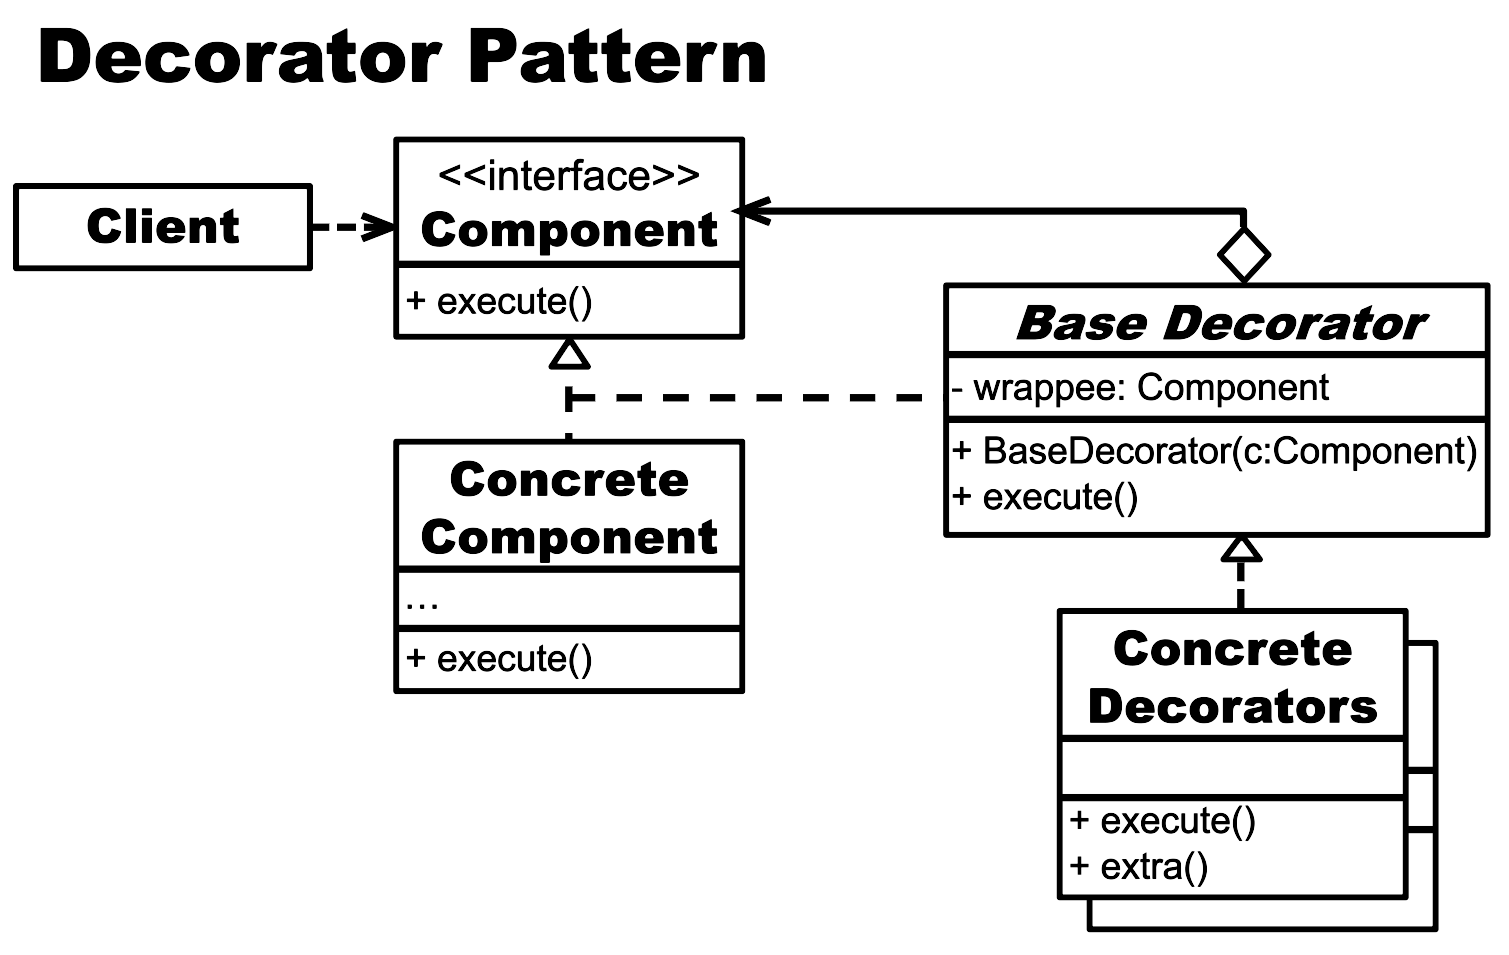
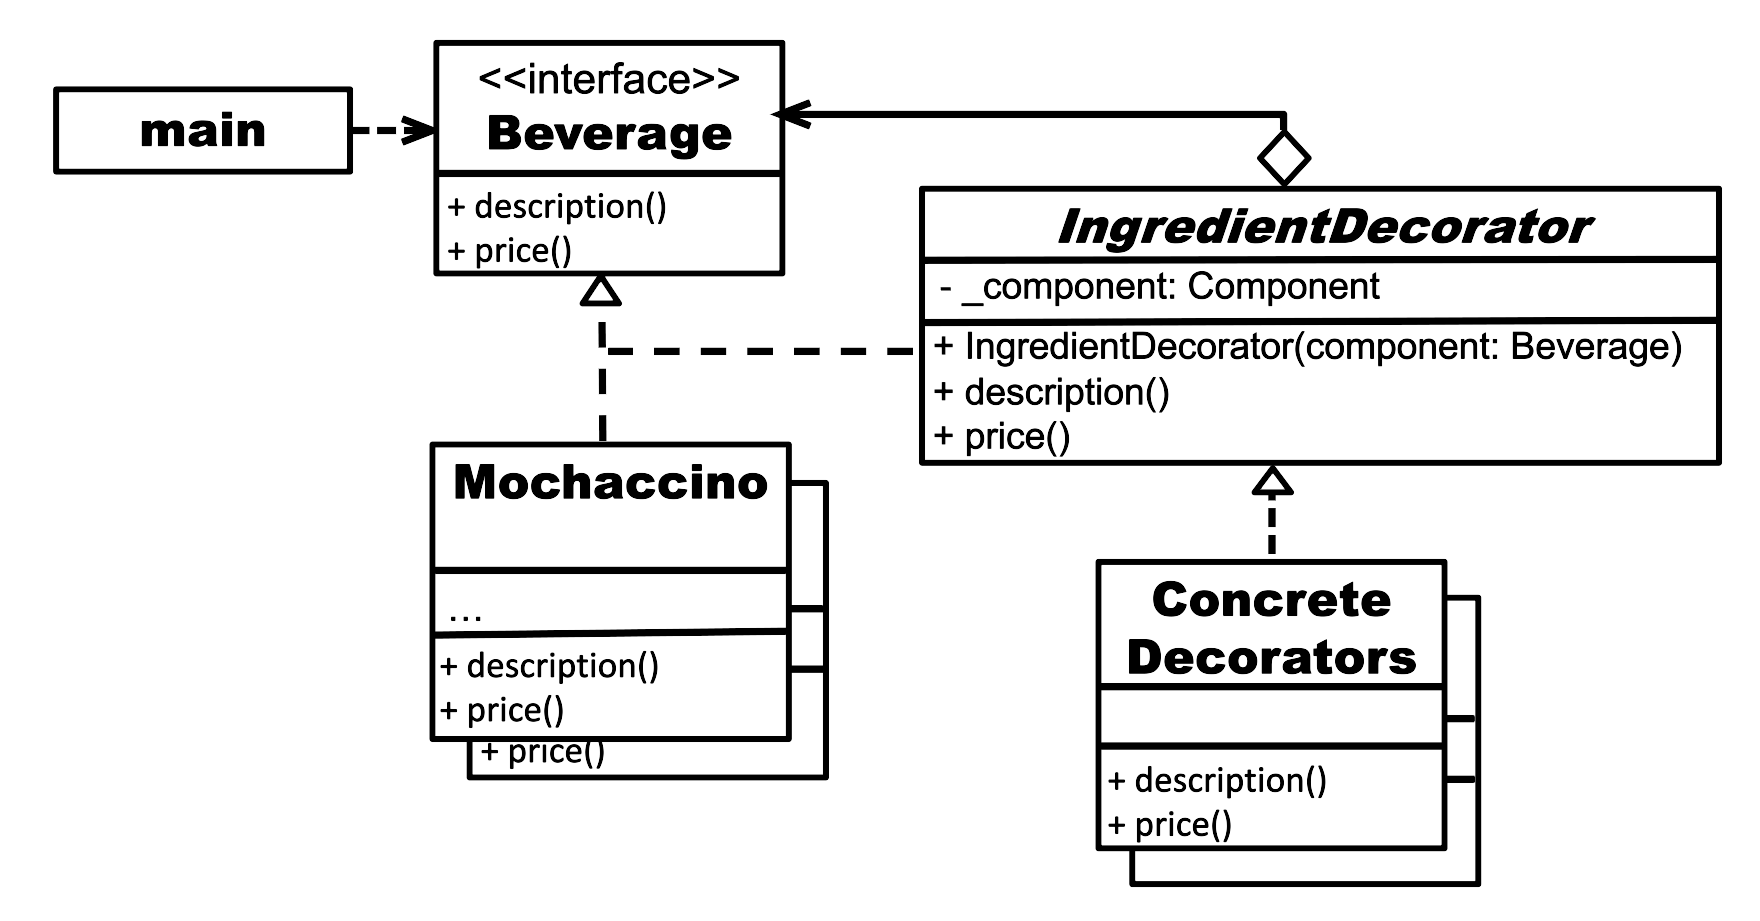
updated decorator

Changed region(s): [[0.0, 0.0304, 0.9967, 1.0]]

diff --git a/example_decorator_pattern.py b/example_decorator_pattern.py
@@ -8,7 +8,7 @@ class Beverage():
 
 
 # concrete component provides default implementation
-class Moccachino(Beverage):
+class Mochaccino(Beverage):
     def description(self) -> str:
         return "Moccachino"
 
@@ -36,7 +36,7 @@ class CoffeeBlack(Beverage):
 
 # base decorator implements the same component interface and
 # defines the wrapping interface for all concrete decorators
-class IngredientsDecorator(Beverage):
+class IngredientDecorator(Beverage):
     _component: Beverage = None
 
     def __init__(self, component: Beverage) -> None:
@@ -53,7 +53,7 @@ class IngredientsDecorator(Beverage):
 
 
 # concrete decorator
-class ExtraMilk(IngredientsDecorator):
+class ExtraMilk(IngredientDecorator):
     def description(self) -> str:
         return f"{super().description()}, extra milk"
 
@@ -62,7 +62,7 @@ class ExtraMilk(IngredientsDecorator):
 
 
 # concrete decorator
-class ExtraSuggar(IngredientsDecorator):
+class ExtraSuggar(IngredientDecorator):
     def description(self) -> str:
         return f"{super().description()}, extra suggar"
 
@@ -71,7 +71,7 @@ class ExtraSuggar(IngredientsDecorator):
 
 
 # concrete decorator
-class ExtraChocolate(IngredientsDecorator):
+class ExtraChocolate(IngredientDecorator):
     def description(self) -> str:
         return f"{super().description()}, extra chocolate"
 
@@ -85,9 +85,9 @@ def print_order(component: Beverage) -> None:
 
 
 def main():
-    moccachino = Moccachino()
-    moccachino = ExtraMilk(moccachino)
-    print_order(moccachino)
+    mochaccino = Mochaccino()
+    mochaccino = ExtraMilk(mochaccino)
+    print_order(mochaccino)
 
     coffee = CoffeeBlack()
     coffee = ExtraSuggar(coffee)
